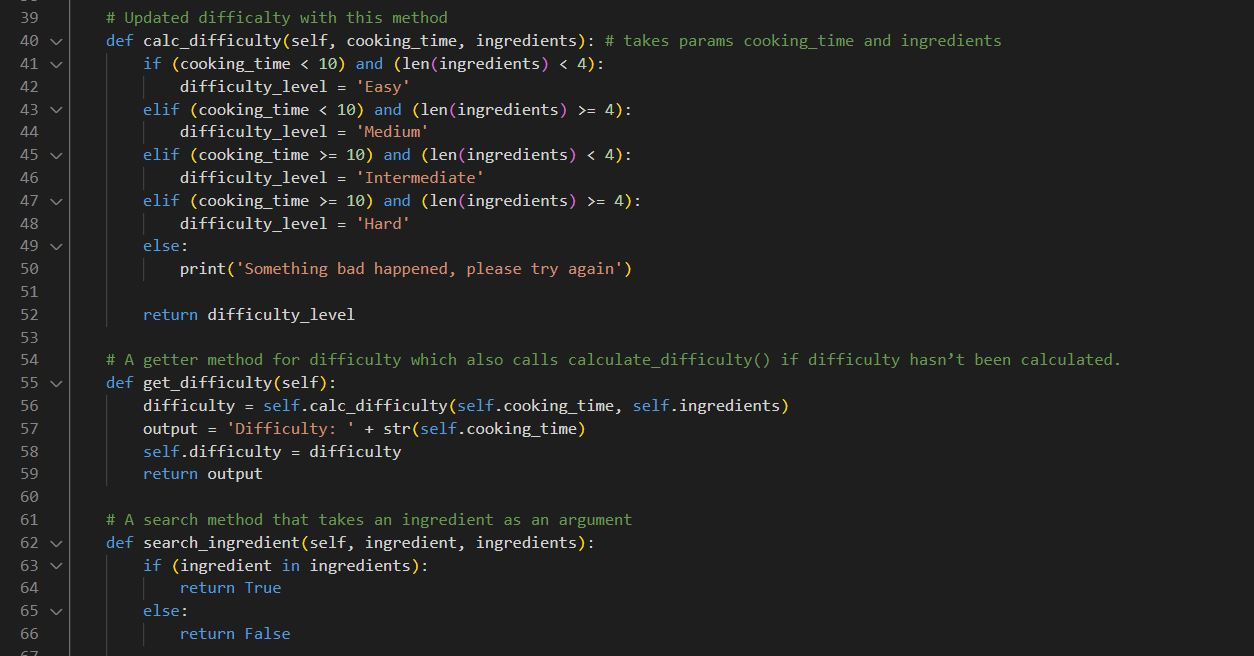
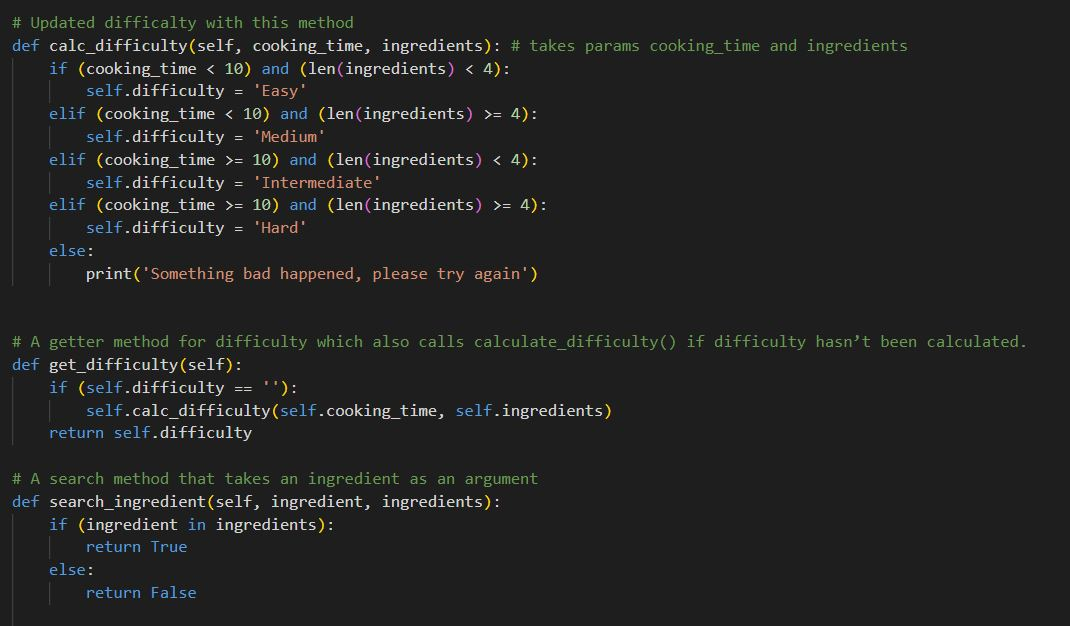
Edit calc_dificulty function

Changed region(s): [[0.0, 0.0, 0.8636, 0.4856], [0.0, 0.4856, 0.9561, 1.0]]

diff --git a/Exercise1.5/recipe_oop.py b/Exercise1.5/recipe_oop.py
@@ -5,13 +5,12 @@ class Recipe(object):
     def __init__(self, name):
         self.name = name # the name of a recipe
         self.ingredients = [] # a list containing the ingredients for a recipe
-        self.cooking_time = int(0) # the time taken in minutes to carry out a recipe
+        self.cooking_time = 0 # the time taken in minutes to carry out a recipe
         self.difficulty = '' # an auto-generated attribute that says whether the recipe is Easy, Medium, Intermediate, or Hard
 
     #  method that takes in the name for the recipe
     def get_name(self): # Getter method for name
-        output = 'Recipe name: ' + str(self.name)
-        return output
+        return self.name
 
     def set_name(self, name): # Setter method for name
         self.name = str(name)
@@ -25,38 +24,34 @@ class Recipe(object):
 
     # A method called add_ingredients that takes in variable-length arguments for the recipe’s ingredients.
     def add_ingredients(self, *args):
-        self.ingredients = args
+        self.ingredients = list(args)
         self.update_all_ingredients()
+        
 
     # A getter method for ingredients that returns the list itself.
     def get_ingredients(self):
-        print('\nIngredients: ')
-        print('---------------------------')
-        for ingredient in self.ingredients:
-            print(' - ' + str(ingredient))
-        print('\n')
+        return self.ingredients
+            
 
     # Updated difficalty with this method
     def calc_difficulty(self, cooking_time, ingredients): # takes params cooking_time and ingredients
         if (cooking_time < 10) and (len(ingredients) < 4):
-            difficulty_level = 'Easy'
+            self.difficulty = 'Easy'
         elif (cooking_time < 10) and (len(ingredients) >= 4):
-            difficulty_level = 'Medium'
+            self.difficulty = 'Medium'
         elif (cooking_time >= 10) and (len(ingredients) < 4):
-            difficulty_level = 'Intermediate'
+            self.difficulty = 'Intermediate'
         elif (cooking_time >= 10) and (len(ingredients) >= 4):
-            difficulty_level = 'Hard'
+            self.difficulty = 'Hard'
         else:
             print('Something bad happened, please try again')
 
-        return difficulty_level
 
     # A getter method for difficulty which also calls calculate_difficulty() if difficulty hasn’t been calculated.
     def get_difficulty(self):
-        difficulty = self.calc_difficulty(self.cooking_time, self.ingredients)
-        output = 'Difficulty: ' + str(self.cooking_time)
-        self.difficulty = difficulty
-        return output
+        if (self.difficulty == ''):
+            self.calc_difficulty(self.cooking_time, self.ingredients)
+        return self.difficulty
 
     # A search method that takes an ingredient as an argument
     def search_ingredient(self, ingredient, ingredients):
